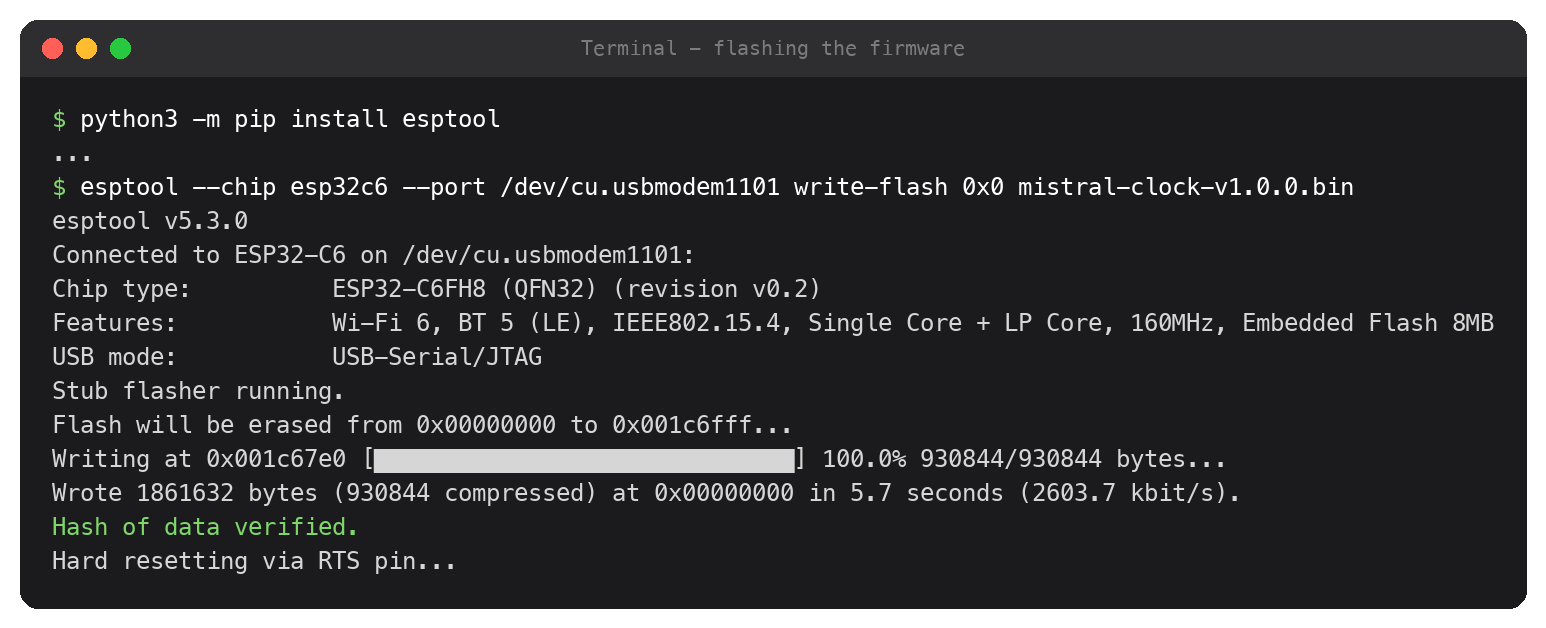
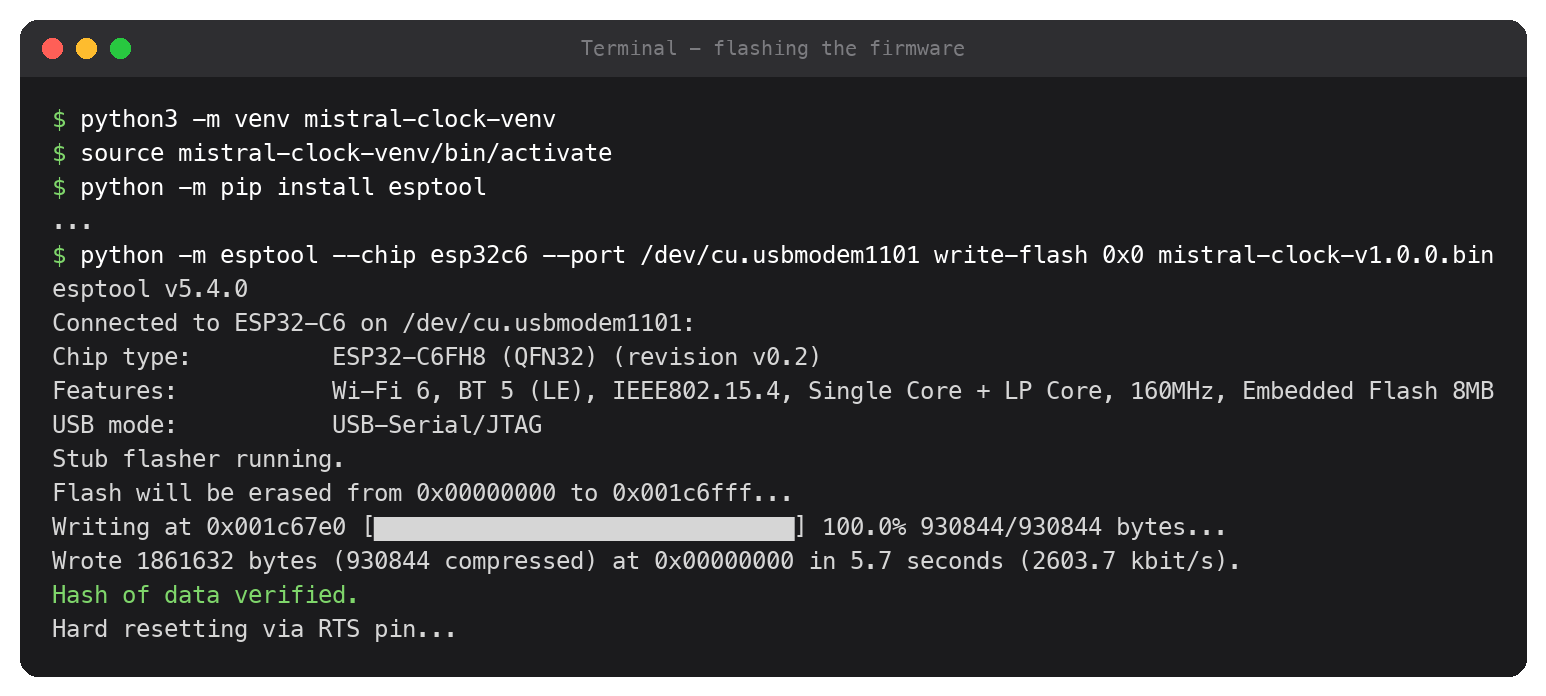
README: install esptool in a virtual environment (PEP 668)

diff --git a/tools/make_setup_screenshots.py b/tools/make_setup_screenshots.py
@@ -58,10 +58,12 @@ BLOCK = "\u2588"                            # esptool's progress-bar glyph
 
 SHOTS = {
     "1-flash.png": ("Terminal - flashing the firmware", [
-        sh("python3 -m pip install esptool"),
+        sh("python3 -m venv mistral-clock-venv"),
+        sh("source mistral-clock-venv/bin/activate"),
+        sh("python -m pip install esptool"),
         out("..."),
-        sh(f"esptool --chip esp32c6 --port {PORT} write-flash 0x0 mistral-clock-v{VERSION}.bin"),
-        out("esptool v5.3.0"),
+        sh(f"python -m esptool --chip esp32c6 --port {PORT} write-flash 0x0 mistral-clock-v{VERSION}.bin"),
+        out("esptool v5.4.0"),
         out(f"Connected to ESP32-C6 on {PORT}:"),
         out("Chip type:          ESP32-C6FH8 (QFN32) (revision v0.2)"),
         out("Features:           Wi-Fi 6, BT 5 (LE), IEEE802.15.4, Single Core + LP Core, 160MHz, Embedded Flash 8MB"),
@@ -74,7 +76,7 @@ SHOTS = {
         out("Hard resetting via RTS pin..."),
     ]),
     "2-terminal.png": ("Terminal - the clock's console", [
-        sh(f"python3 -m serial.tools.miniterm {PORT} 115200"),
+        sh(f"python -m serial.tools.miniterm {PORT} 115200"),
         out(f"--- Miniterm on {PORT}  115200,8,N,1 ---", DIM),
         out("--- Quit: Ctrl+] | Menu: Ctrl+T | Help: Ctrl+T followed by Ctrl+H ---", DIM),
         out(""),

diff --git a/README.md b/README.md
@@ -63,17 +63,30 @@ materials, the print settings and more photos are in
 ### 1. Flash the firmware
 
 Download `mistral-clock-v1.0.0.bin` from the
-[latest release](../../releases/latest) and install the flashing tool:
+[latest release](../../releases/latest), then open a terminal in the folder
+you downloaded it to and install the flashing tool.
+
+**macOS and Linux:** recent Python versions only let `pip` install into a
+virtual environment, so make one next to the download:
 
 ```sh
-python3 -m pip install esptool
+cd ~/Downloads
+python3 -m venv mistral-clock-venv
+source mistral-clock-venv/bin/activate
+python -m pip install esptool
 ```
+
+If you open a new terminal later (for step 2, or to flash again), run
+`source mistral-clock-venv/bin/activate` in that folder first.
+
+**Windows:** run `py -m pip install esptool`, then type `py` wherever these
+steps say `python`.
 
 Plug the board into your computer and find its port. This lists only ports
 whose USB ID (`303A:1001`) matches the ESP32-C6's built-in USB:
 
 ```sh
-python3 -m serial.tools.list_ports 303A:1001
+python -m serial.tools.list_ports 303A:1001
 ```
 
 ```text
@@ -91,7 +104,7 @@ port. On Linux, also add yourself to the `dialout` group
 Flash, using your port in place of `/dev/cu.usbmodem1101`:
 
 ```sh
-esptool --chip esp32c6 --port /dev/cu.usbmodem1101 write-flash 0x0 mistral-clock-v1.0.0.bin
+python -m esptool --chip esp32c6 --port /dev/cu.usbmodem1101 write-flash 0x0 mistral-clock-v1.0.0.bin
 ```
 
 ![Flashing the firmware](docs/setup/1-flash.png)
@@ -105,7 +118,7 @@ image also erases saved settings, so a re-flash means adding Wi-Fi again.
 above:
 
 ```sh
-python3 -m serial.tools.miniterm /dev/cu.usbmodem1101 115200
+python -m serial.tools.miniterm /dev/cu.usbmodem1101 115200
 ```
 
 Press **Enter** to see the menu. Quit with **Ctrl+]**.

diff --git a/docs/REFERENCE.md b/docs/REFERENCE.md
@@ -53,7 +53,12 @@ app) to `.pio/build/esp32-c6-touch-lcd-1-47/firmware.factory.bin`; that is
 the release `.bin`, flashed at offset `0x0`.
 
 The host tools need Python 3 with `pyserial` (and `Pillow` for the image
-tools): `python3 -m pip install pyserial Pillow`.
+tools), installed in a virtual environment:
+
+```sh
+python3 -m venv .venv && source .venv/bin/activate
+python -m pip install pyserial Pillow
+```
 
 ## Back up the stock firmware
 
@@ -61,9 +66,9 @@ The board ships with Waveshare's demo firmware. To keep a copy before the
 first flash (keep it private; it is Waveshare's firmware):
 
 ```sh
-esptool --chip esp32c6 --port PORT --baud 921600 read-flash 0x0 0x800000 stock-8mb.bin
+python -m esptool --chip esp32c6 --port PORT --baud 921600 read-flash 0x0 0x800000 stock-8mb.bin
 # restore later with:
-esptool --chip esp32c6 --port PORT --baud 921600 write-flash 0x0 stock-8mb.bin
+python -m esptool --chip esp32c6 --port PORT --baud 921600 write-flash 0x0 stock-8mb.bin
 ```
 
 ## Console
@@ -193,8 +198,8 @@ the log):
 ```sh
 export CLOCK_TEST_WIFI_SSID='<test network SSID>'
 export CLOCK_TEST_WIFI_PASS='<test network password>'
-python3 tools/validate_e2e.py        # about 8 minutes; exit code 0 = all checks passed
-python3 tools/console_check.py
+python tools/validate_e2e.py        # about 8 minutes; exit code 0 = all checks passed
+python tools/console_check.py
 ```
 
 ## Design assets and licences
